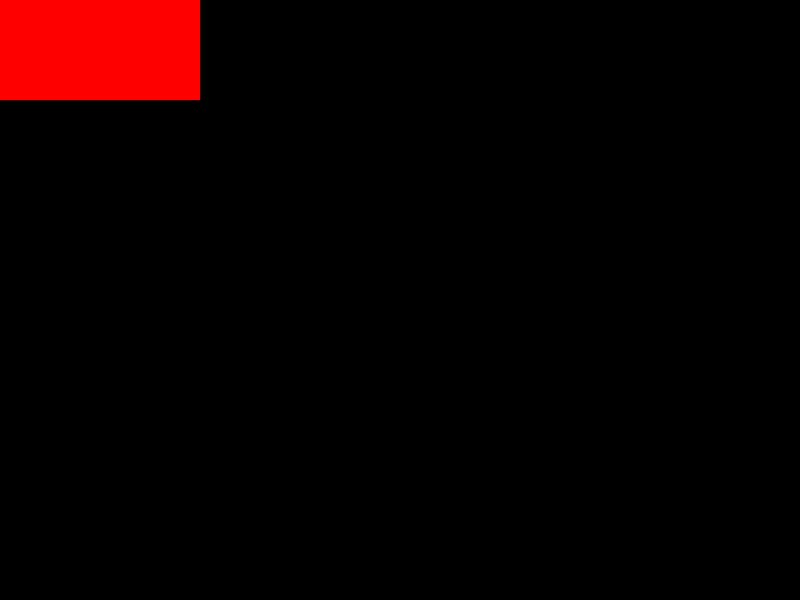
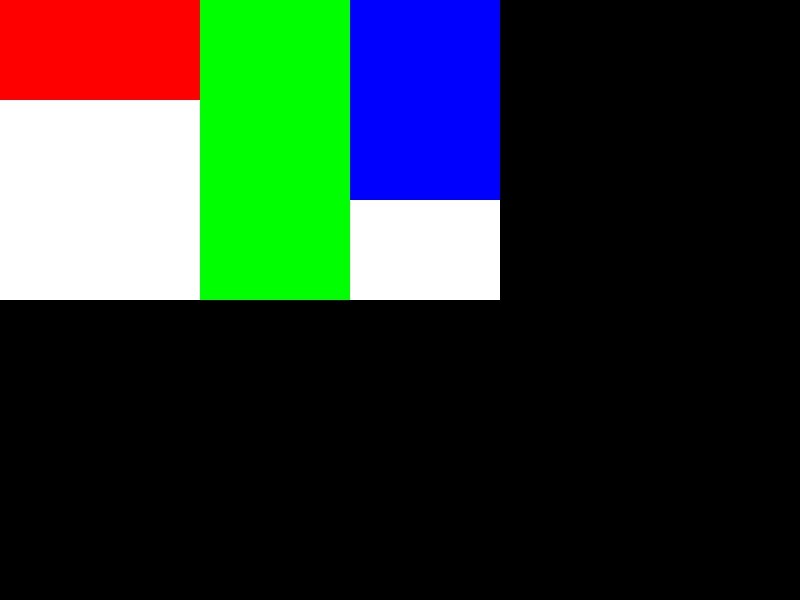
render 渲染 dom

Changed region(s): [[0.0, 0.0, 0.625, 0.51]]

diff --git a/week07/toy-browser/server.js b/week07/toy-browser/server.js
@@ -27,12 +27,18 @@ const server = http.createServer((req, res) => {
         flex: 1;
         background-color: rgb(0,255,0);
       }
+      #container .c2 {
+        width: 150px;
+        height:200px;
+        background-color: rgb(0,0,255);
+      }
     </style>
   </head>
   <body>
     <div id="container">
       <div id="myid"></div>
       <div class="c1"></div>
+      <div class="c2"></div>
     </div>
   </body>
 </html>

diff --git a/week07/toy-browser/client.js b/week07/toy-browser/client.js
@@ -243,7 +243,8 @@ void async function () {
 
   const viewport = images(800, 600)
 
-  render(viewport, dom.children[1].children[3].children[1].children[1])
+  // render(viewport, dom.children[1].children[3].children[1].children[1])
+  render(viewport, dom)
 
   viewport.save('viewport.jpg')
 }()

diff --git a/week07/toy-browser/render/index.js b/week07/toy-browser/render/index.js
@@ -14,6 +14,12 @@ function render(viewport, element) {
       viewport.draw(img, element.style.left || 0, element.style.top || 0)
     }
   }
+
+  if (element.children) {
+    for (let child of element.children) {
+      render(viewport, child)
+    }
+  }
 }
 
 module.exports = render
